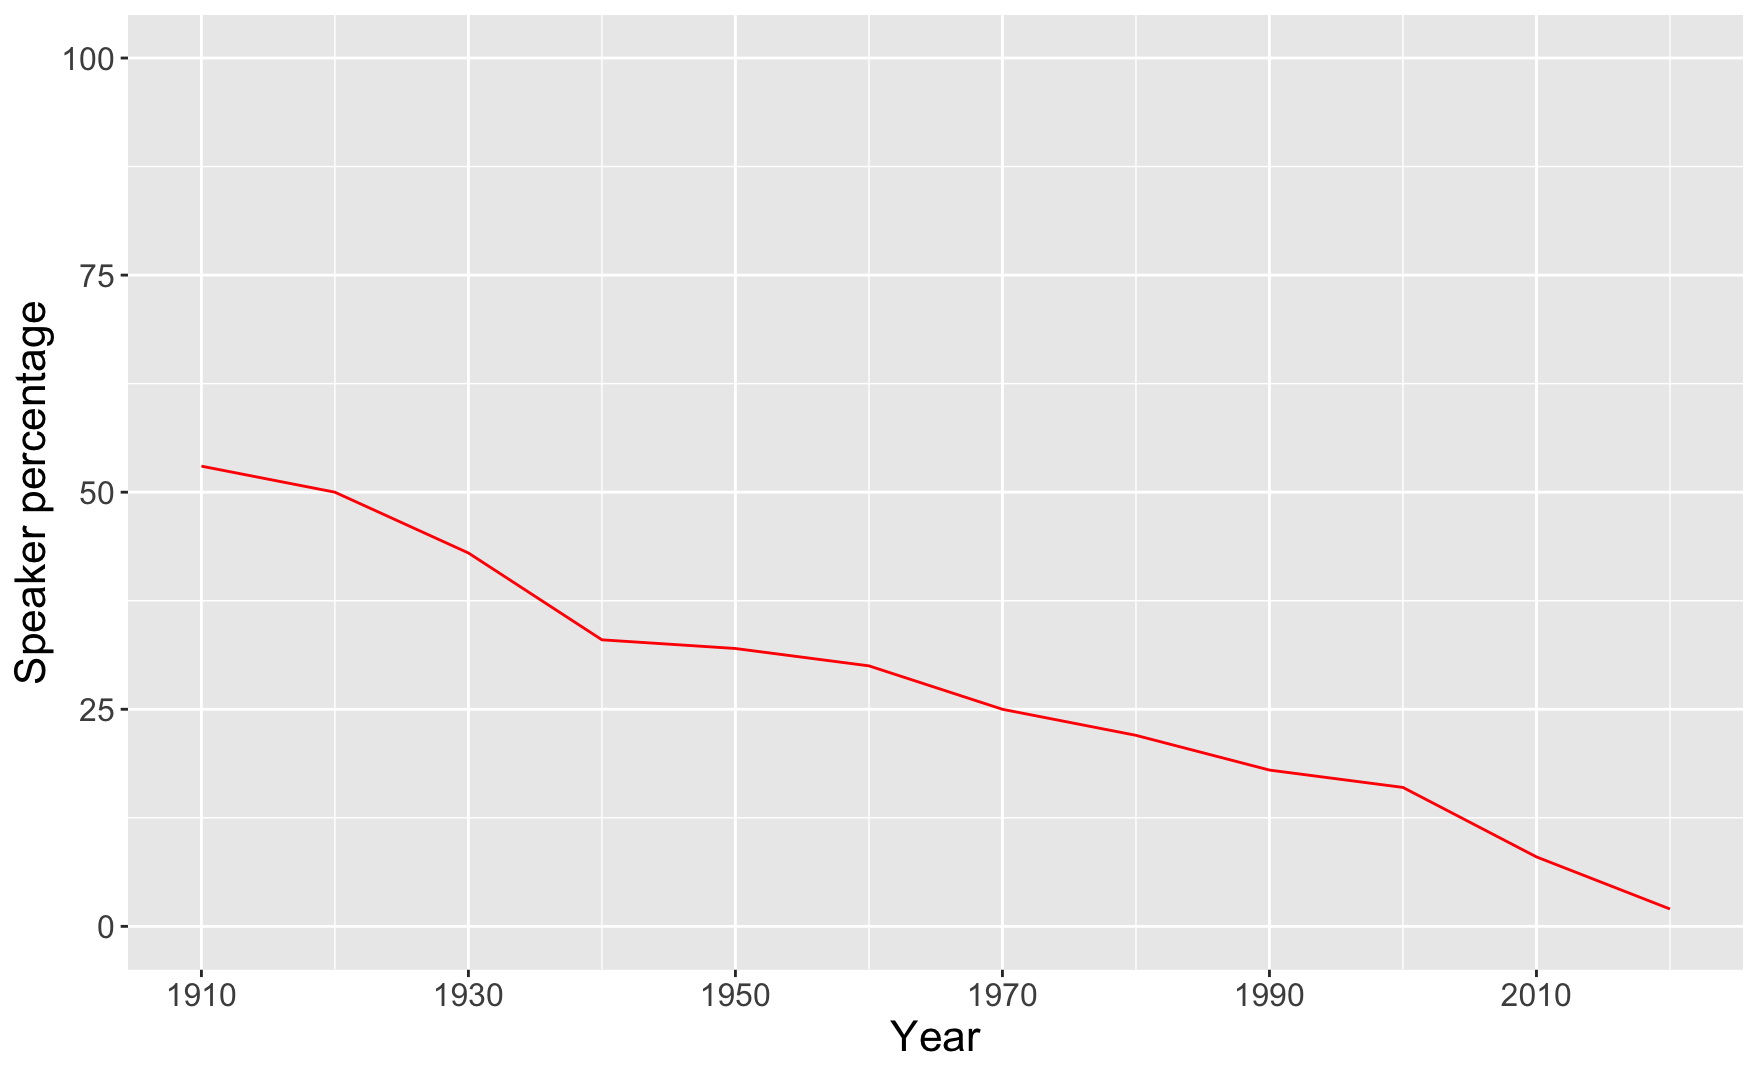
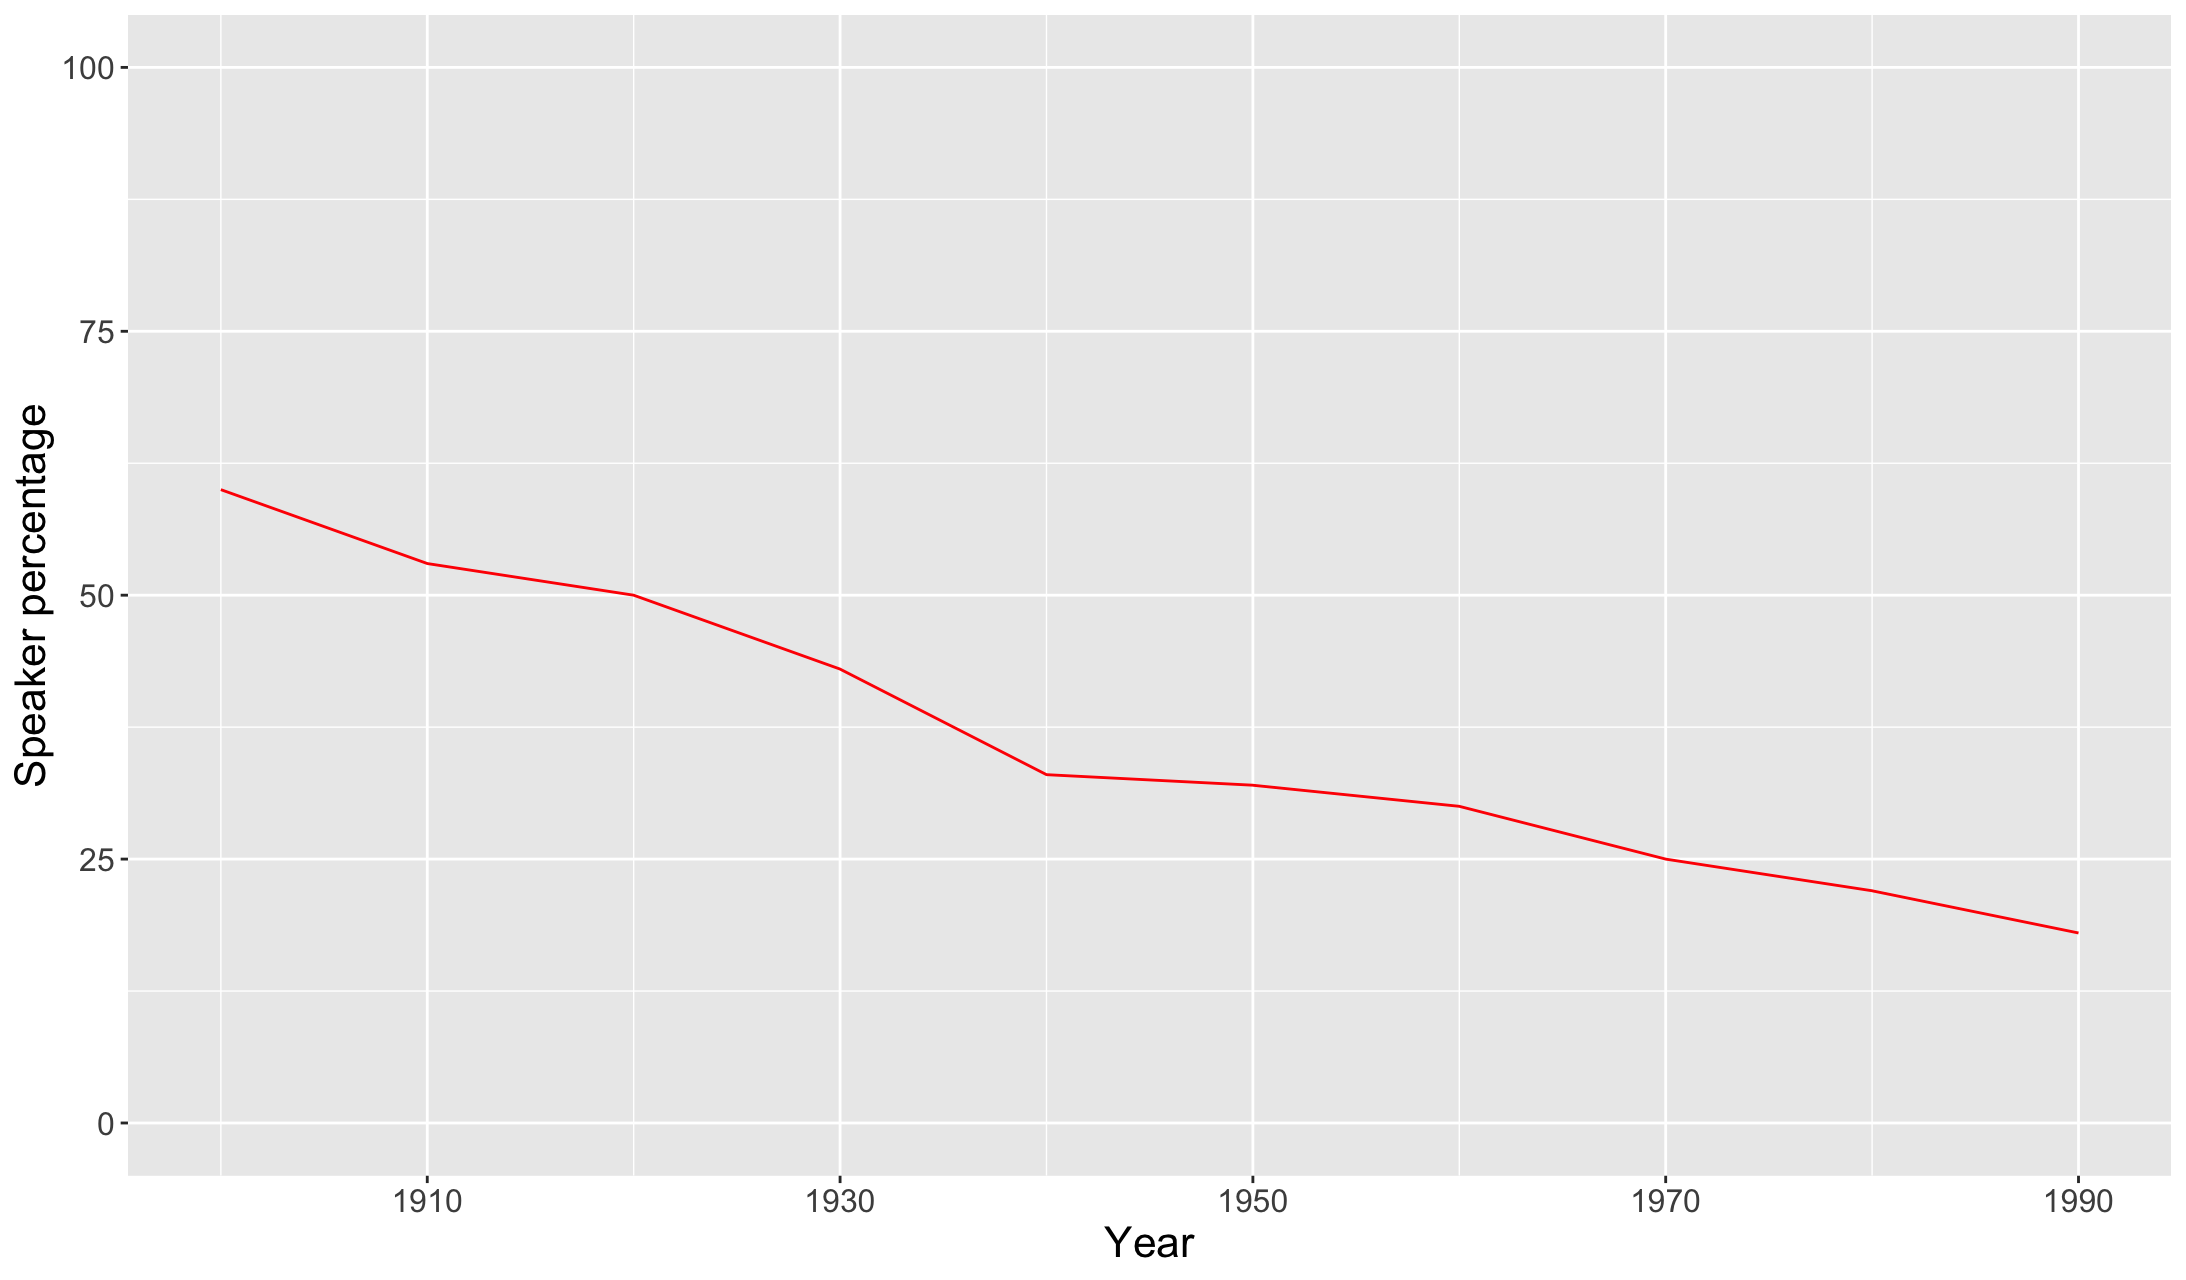
adjust Drogek Trend image

diff --git a/index.html b/index.html
@@ -569,8 +569,8 @@ jsPsych.data.addProperties({
        <p style="font-size:24px;">The following screens will introduce you to the language.</p>
        <p style="font-size:20px;">First you'll see pairs of words and images. Try to learn the words!</p>
        <p style="font-size:20px;">Later you’ll be asked to choose the correct word or image.</p>
-       <p style="font-size:20px;">After that you'll move on to some full sentences.</p>
-       <p style="font-size:20px;">Finally you'll be asked to produce sentences yourself.</p>
+       <p style="font-size:20px;">After that you'll move on to some more complex phrases</p>
+       <p style="font-size:20px;">Finally you'll be asked to produce some Taneg yourself.</p>
       <p></p>
        <p style="font-size:20px;"><i>Press any key to begin.</i></p>
     `,
